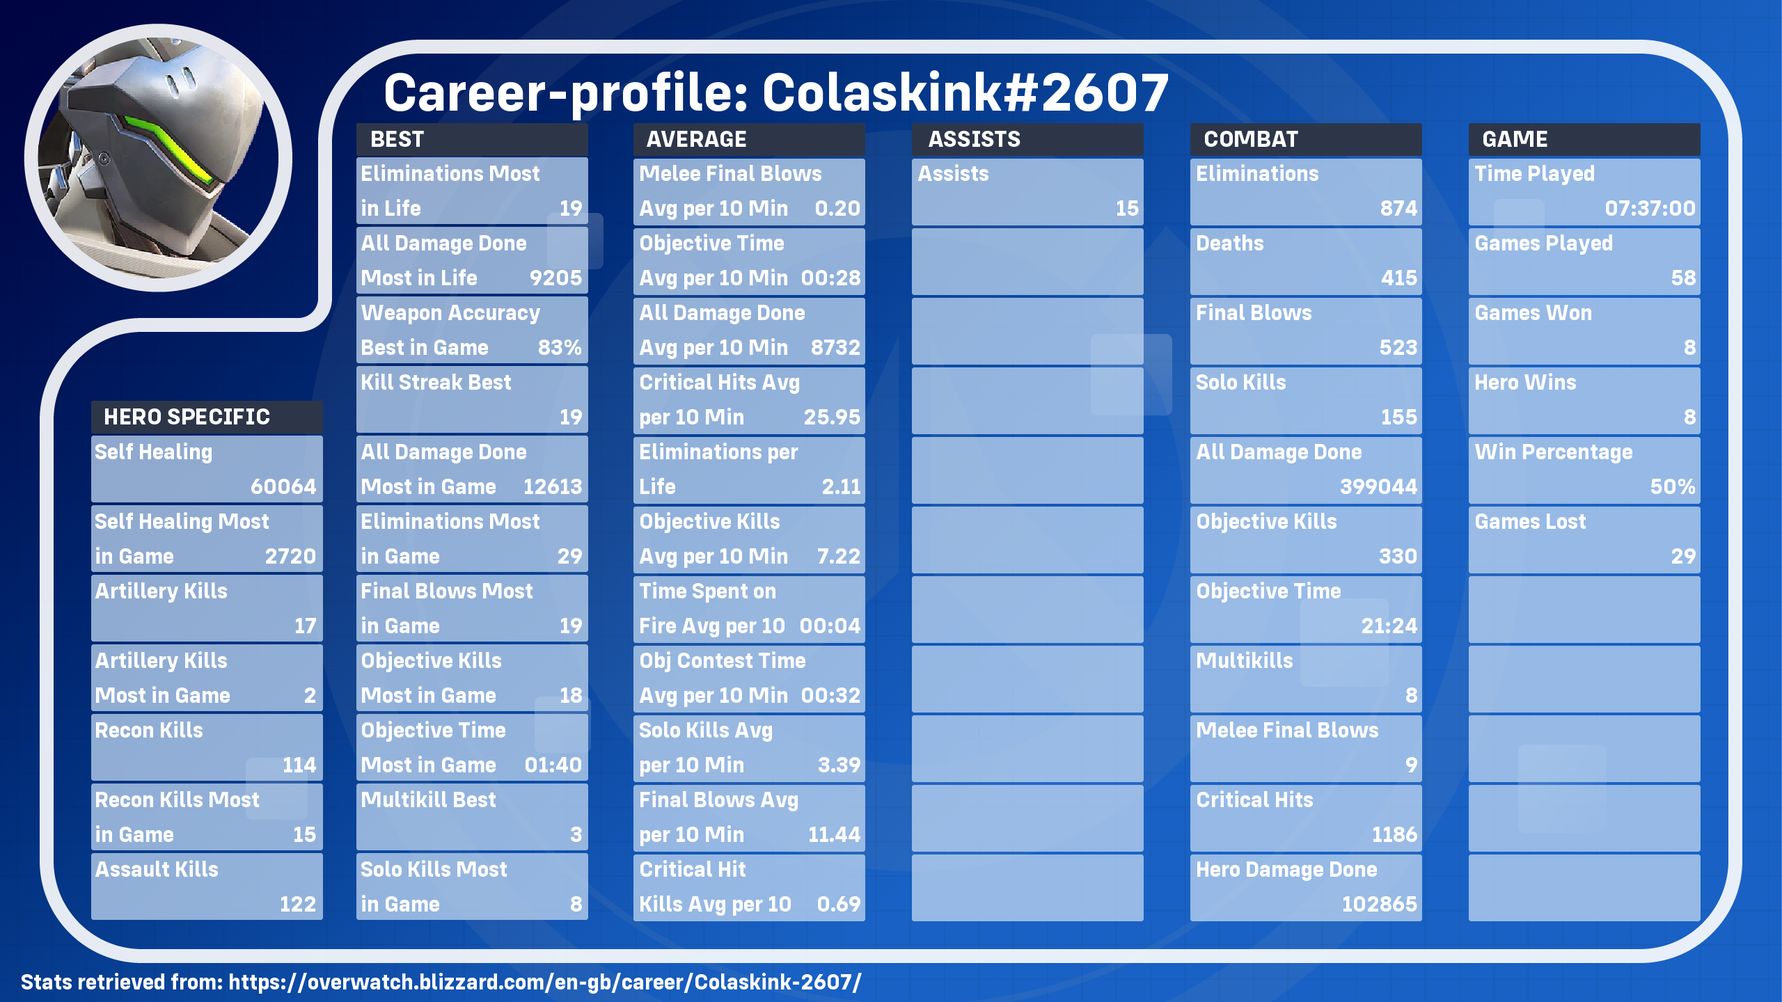
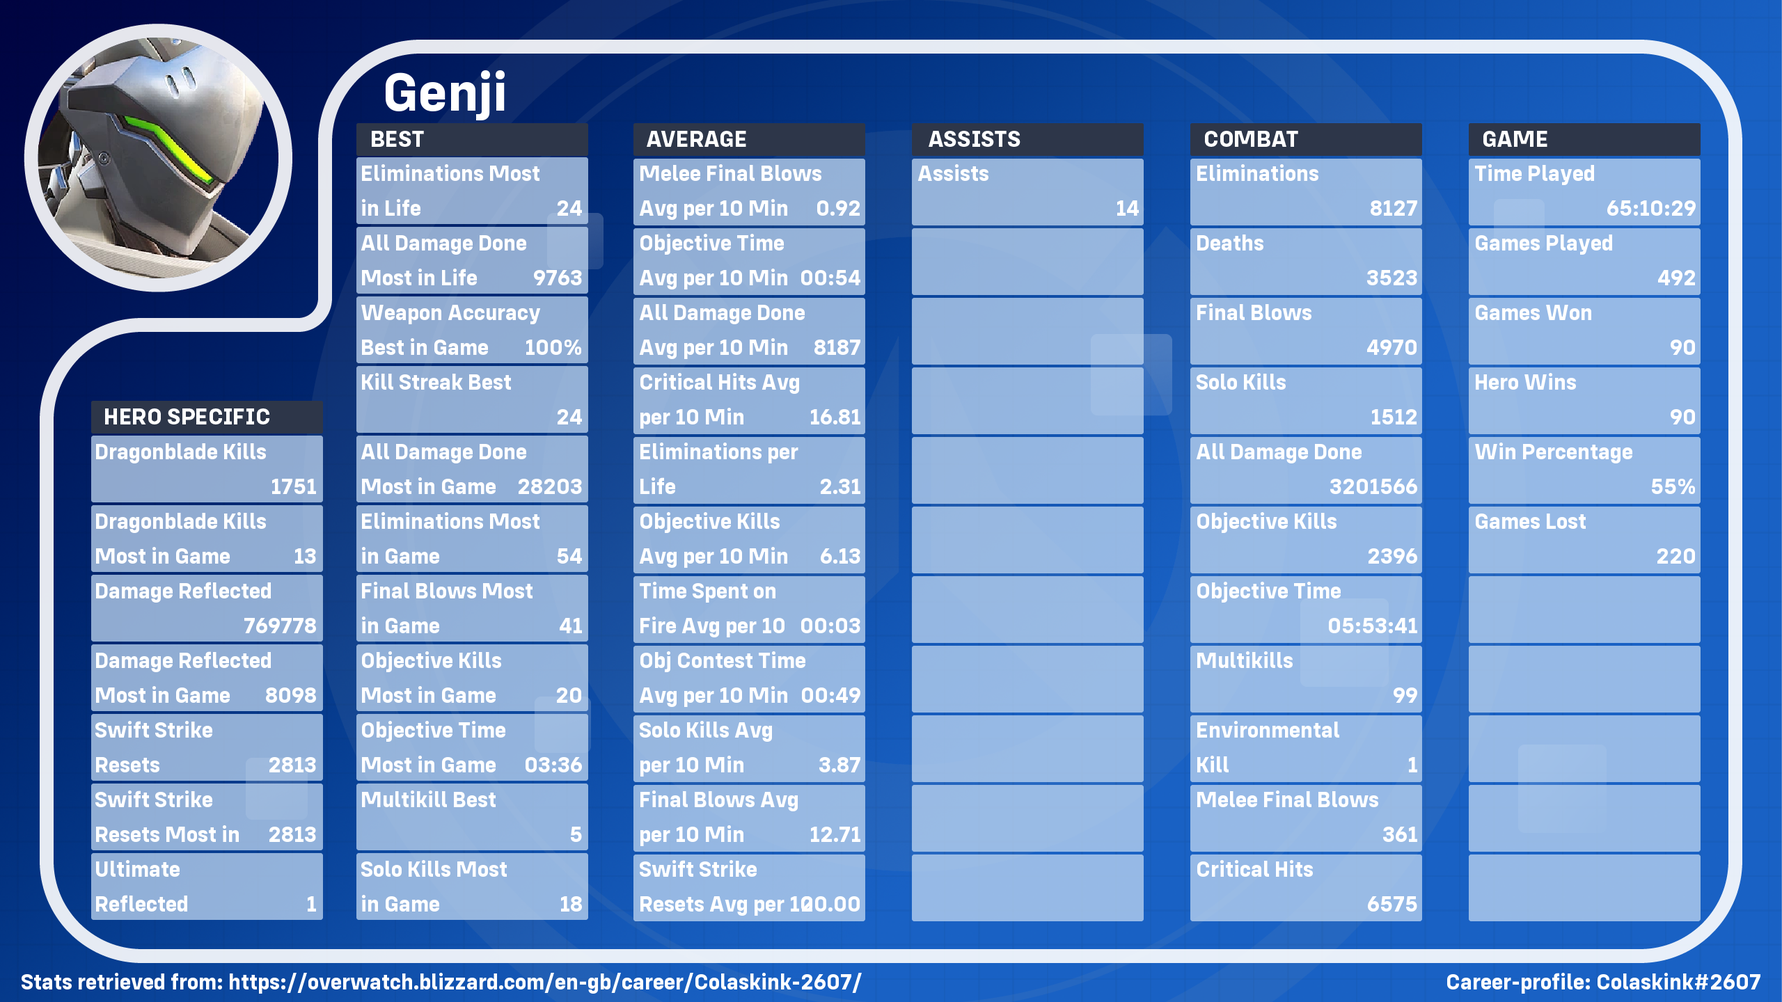
new commands, counters for heroes, random hero/team generator

diff --git a/VariousData.py b/VariousData.py
@@ -1,0 +1,44 @@
+counters_data = {
+    "ana": "**Ana**\n\nOf course, the classic counter is just to run Kiriko 4head and Suzu her anti-nade, but I want to look at situations where you would not want to run Ana, and that is what you are running. A brawl comp, where you would either be running Baptiste or in a full-on poke matchup, where Baptiste just does more damage. So, team comp wise, that is where you can get an advantage, individually speaking. Diving or pressuring the Ana, of course, is a good move, either running straight into the back line as Reinhardt, Ramattra, or just diving in on any hero. ",
+    "ashe": "**Ashe**\n\nAshes strengths lie in her range and damage, but falter in her sustain and mobility. Duelist heroes like Genji and Tracer and to a lesser extent, Sombra can easily demolish her, especially without a mercy pocket and especially on maps with high ground. You really ought to be playing Winston, Ball or D.va. You lose against Ashe once she has all the space in the world, specifically on high ground-based maps. So, you need to play heroes that can contest that. Kiriko and Moira are even solid picks, as long as you can pull off the flanking playstyle.",
+    "baptiste": "**Baptiste**\n\nBap's kind of the jack of all trade support hero. He's tough to nail down a specific hard counter for, because there kind of isn't one. I suppose if you are on DPS, playing them well is just probably your best bet, and that sounds kind of vague, but what I mean is choosing and picking a specific playstyle. For example, flanking on Junkrat to get that one shot off, or flanking on Reaper instead of frontlining, or just taking good, well-timed angles on Ashe or Sojourn things like that can catch a Baptiste out in the open. And as for the other tank and support matchups, most of them are pretty neutral, if not similar to Ana.",
+    "bastion": "**Bastion**\n\nThe noob stomper of a pick. Honestly, any hitscan pick, and even Sojourn, who can easily farm rail off him, can melt Bastion's mega hitbox. I will say that the counter to Bastion is more of a playstyle thing rather than hero specific. As long as you can play defensive during Bastion’s turret cycles, you are pretty much good to go. Any hero can pretty much kill Bastion if he hasn't got turret form. ",
+    "brigitte": "**Brigitte**\n\nBrigitte thrives the best against dive comps, where Brig falters is in the ranged matchups against snipers or mercy-based comps, or in straight up brawl comps, like your Lucio Bap and Rein stuff on Lijiang. Despite Brick being a melee hero, she wants to keep a relatively far distance away from the enemy tank, but she also wants to get close eventually in the midfight to get those swings off. Those two types of compositions can make either of those goals really tough for Brick to achieve.",
+    "cassidy": "**Cassidy**\n\nCassidy is a pretty versatile hero, more of a jack of all trades, master of none kind of thing. So, you can either outrange him with heroes like Ashe, Mercy, Zen Widow, and Hanzo, or you can abuse his lackluster mobility with a dive or duelist-oriented comp. He has not really got too much of a glaring weakness, and most of his so-called counters are soft counters.",
+    "d.va": "**D.va**\n\nIf the D.va is not competent or loves stacking main, then the solution is easy. Go Zarya and hold M1, or just go high damage heroes to obliterate the D.va (e.g., Bastion, Symmetra, Sojourn, Soldier). But if you are going against a good D.va who does not feed and correctly marks high grounds, then it is a bit more complicated and a bit more team oriented. If you can split the D.va’s attention, that is what can cause great panic. Make her choose between marking and controlling high grounds and peeling her backline. Sombra is also a good hero against her considering the hack and range advantage she has.",
+    "doomfist": "**Doomfist**\n\nGenerally speaking, there is a few things you can do. Either run heroes with hard CC like Orisa, Ana or Sombra, or run heroes that can deny Doomfist any space, like D.va, Sombra, Tracer, Echo, and even Zen with his orbs.",
+    "echo": "**Echo**\n\nSimilar to Pharah, as you will see later range, can often be a big issue for Echo. Two Cassidy shots one Hanzo arrow, and Echo automatically has to play way more passive. If she lands her stickies and beam combo up close, you are likely going to die to her. Most of the tanks do not interact with Echo barring D.va, but it's also pretty easy to feed on D.va against an Echo. I will say that Sombra is also a decent counter, since the hack from Invis paired alongside Echo’s big hitbox can easily melt Echo on the ground.",
+    "genji": "**Genji**\n\nMoira, and Brigitte can be tough to deal with alongside a high charge Zarya. Sustain and bulky brawl comps do not really bode well for Genji, since heroes like Reinhardt, Mei, Baptiste, and Lucio can easily tank through your dash and your shuriken most of the time.",
+    "hanzo": "**Hanzo**\nI have always seen Hanzo like an alternative Cassidy with higher burst damage in exchange for lower sustain. Heroes like Genji, Doomfist, Sombra, and Tracer should easily be able to squash the Hanzo with no issue. Sigma, I think, is also an underrated tank to play against because you can mark any angles he takes.", 
+    "illari": "**Illari**\n\n[REDACTED]",
+    "junker queen": "**Junker Queen**\n\nJunker Queen's two biggest weaknesses, even from release, has always been her range and mobility. Running heroes like Sigma Pharah, Ashe, Hanzo, Zen, Mercy and others can keep Junker Queen at bay from range, and because of her limited mobility, she should have a tough time getting up close. Ana and Kiriko can also deny value from her adrenaline surge and her ultimate, respectively. Playing Ramattra or Zarya are also decent choices as long as you force commanding shout early before you close the distance.",
+    "junkrat": "**Junkrat**\n\nThe classic counter is Pharmercy, of course, but Junkrat's kind of built like a glass cannon. Zarya can absorb his bombs and melt him down. D.va can eat all kinds of spam from him, and most importantly, most heroes honestly have a relatively decent matchup against him as long as you're aware of where he is. A Junkrat sneaking up on you for a mine concussion combo is a recipe for disaster. Maybe even going Hanzo and scouting out his flanks could be worthwhile. ",
+    "kiriko": "**Kiriko**\n\nI genuinely think this hero does not have a hard counter. She is only really bad in situations where you wouldn't pick Kiriko anyways, like on Circle Royale, where you should be playing Bap, Zen, but even then, you could get away with Kiriko in your rank games, I suppose. Pouncing on Kiriko if she is isolated when you are playing as a flanker or just being more aware of your surroundings as a sniper in case a Kiriko tries to pounce on you are all precautionary measures that you can take. ",
+    "lifeweaver": "**Lifeweaver**\n\n[REDACTED]",
+    "lucio": "**Lucio**\n\nAny CC can stop his reddit antics. And if he is supporting a DPS on a flank, someone like a Brig can do that job better. For example, a Sojourn. Lucio should lose against a Brig Sojourn. But as for direct counters, there is not really too much to say. Honestly, most of his matchups are pretty neutral.",
+    "mei": "**Mei**\n\nIf you play very split against Mei and you also play to out range her, then the value she can get from the wall will be at most, quite limited. Heroes with high sustain like Ramattra and Orisa can also withstand getting split from Mei's wall. ",
+    "mercy": "**Mercy**\n\nMercy has some pretty rudimentary counters, thriving on ranged maps, but struggling up close due to her low sustain. Get behind her on any flank in the game, or close the distance with broader compositions. The Brig vs. Mercy matchup is interesting, since if you can close the distance from Brig, Mercy is kind of screwed.",
+    "moira": "**Moira**\n\nMoira is probably the best support duelist in the game, thanks to her insane sustain. However, she has no utility. Ana nades really pose a threat to her, and while she has not got any direct or individual counters, she's a utility burden on her team. Things like immortality, field Suzu, Nade sleep, and Zen orbs, if used correctly, will often naturally outvalue what Moira can do. If you are struggling individually, I recommend going heroes with high sustain. Moira is simply not outdueling you if you are on Brig.",
+    "orisa": "**Orisa**\n\nSimple, either run Zarya and or focus stuff around the Orisa. Even on Zarya, you are still trying to prioritize squishy heroes where you can. If you are shooting at Orisa in Fortify whilst there are squishies that you could be shooting, then there is a problem. Abuse the fact that Orisa has limited mobility and utility by fighting for the key spaces of the map around the Orisa.",
+    "pharah": "**Pharah**\n\nOf course, the average gold player is getting yelled “play hitscan Lmao”, but it is a bit more nuanced than that. The biggest thing is that if you are going to play Hitscans like Soldier, Widow Cassidy, you really need to keep the range. Pharah loves duels in close range, especially getting up close with that concussive blast. So, if you are running something like an Ana, Zen and Widowmaker, you really cannot let the Pharah get on top of you. In terms of projectile counters, Echo is also really, really good against Pharmercy and for tanks go D.va, of course. ",
+    "ramattra": "**Ramattra**\n\nSimilar to Orisa, I think it's kind of futile trying to run up against the Ramattra. Wrecking Ball in particular, I found very annoying to play against as Ramattra because you do not have any hard CC to deal with him. And if the enemy team are running an Ana Zenyatta combo, then those two heroes can prevent Ramattra from closing the distance.",
+    "reaper": "**Reaper**\n\nBefore I get into his counters, I want to briefly cover his two playstyles. Reaper either frontlines against squishy tanks, or he flanks against a glass cannon immobile squishies. So, to counter him, make either or both of those playstyles hard to pull off. Orisa, Torb, Cassidy, Brig, and Ana are probably the hardest counters to Reaper in the game. Or, if you are on a more open map, Pharah and Echo can work too, as well as other ranged options. ",
+    "reinhardt": "**Reinhardt**\n\nThere is a bunch of things you can do against Reinhardt. Ramattra pretty much melts him. He cannot do much on maps with high ground, so running ranged threats like Ashe and Mercy are a pain to deal with. And also, playing against Ana-Zen is absolutely hellish. Due to Nade sleep and discord. In short, if you are going to play in close range against Reinhardt, make sure you soften him up beforehand (Poke his shield/armor). A Rein with limited shield cannot do much against a dive or rush if he hasn’t got earthshatter.",
+    "roadhog": "**Roadhog**\n\nHonestly, every hero in this game counters Hog. Just play the game and counter him by proxy. Orisa Ana, Zen, and a good Tracer are particularly annoying for him to play against. If you’ve got a feeding DPS, playing Lifeweaver can also save them from getting killed by the hook.",
+    "sigma": "**Sigma**\n\nSigma, of course, loves to keep his range, but he does have the tools to defend himself if he gets walked upon. A good Reinhardt, for example, with good shield management or a good Junker Queen, or Zarya should be able to bully the Sigma up close. Symmetra, Junkrat, and to a lesser extent, Reaper can also kind of do the same thing. And because we are all about closing the distance, Lucio can help with that too. Ensure he cannot continuously poke your team uninterrupted, as that is where he excels.",
+    "sojourn": "**Sojourn**\n\nBefore Sojourn had a pretty strict counter in Cassidy, since if Sojourn ever got close or power steered aggressively, Cassidy could just two shot the Sojourn. Now, that is less of a counter, but still a viable option. Playing tanks with slender hitboxes like Junker Queen and ensuring that it is tough for her to charge her rail gun off can lower how effective she is. Weirdly enough, I think Brig is also a decent pick against her, since she kind of acts like an aggression check if the Sojourn power slides aggressively. ",
+    "soldier 76": "**Soldier: 76**\n\nHis biggest counter is any dive in the game. Even Lucio's can reliably win duels against a Soldier. Soldier just does not have any big, reliable bursts of damage, unlike Cassidy with the homing grenade, Sojourn with a railgun, or even Hanzo with the storm arrows. Sure, he has helix rockets, but that is tough to hit on a moving target. Take advantage of how squishy he can be and pounce when the opportunity shows itself. ",
+    "sombra": "**Sombra**\n\nSombra's USP or unique selling points is her range. She's the flanker in the game with the most range. For example, she can farm a tank more easily than someone like a tracer, so just outrange the Sombra. One Hanzo arrow, two Cassidy body shots, one Widow body shot, and that Sombra is forced to use her translocator. You can also out-sustain the Sombra by running things like Torb and Brig, but be careful that you may not have enough mobility to directly contest her.",
+    "symmetra": "**Symmetra**\n\nSymmetra thrives when she can get her level three beam up, melting down the enemy tank. Her alternative playstyle is a less resource intensive one, involving ticking off angles and spamming from range. Forcing Symmetra into that latter playstyle will make things tougher for her, since she is not microwaving your team.",
+    "torbjorn": "**Torbjörn**\n\nOne of the classic counters against traditional dive heroes, Torb struggles at dishing out reliable damage from mid to long range, which is why heroes like Cassidy, Sigma, and Echo can quite easily burn him down on longer range maps. Just run snipers against him alongside Bap Zen to burn his turret, and you should be fine.",
+    "tracer": "**Tracer**\n\nTracer is such a strong and versatile hero and there are not many direct counters to her. There's Torbjorn, of course, with his turret, but other people can destroy the turret anyways. Personally, I think the best counter to Tracer is to mirror her with support. A Tracer with Zen orbs or a Tracer with Brig packs will win against a regular Tracer. Brig in particular, also has that sustain too, so picking her is definitely a top solution.",
+    "widowmaker": "**Widowmaker**\n\nHigh range, low mobility. Any dive tank, Genji, Tracer, Lucio, Kiriko, even Moira are all solid duelists to flush out the Widowmaker and eliminate her range advantage. Poke-brawl tanks like Ramattra and Reinhardt do not often interact with the Widow anyways, so their matchups are mostly neutral.",
+    "winston": "**Winston**\n\nOf course, all the gold players will say that Reaper or even Bastion is a good counter. But if the Winston knows what he is doing and can get on top of the enemy squishies unless Reaper or Bastion sits in the backline, they are not going to be doing much. Now, they obviously are not bad picks, but they are just one small piece to the larger idea of running mad sustain. Winston is going to be doing fuck all against a Junker Queen, Brig, Ana, Torb, Cassidy or Reaper comp. Now, that Comp does have its own downsides, and it can be counted itself, but if you are really struggling against a Winston, look to get higher damage or higher sustain.",
+    "wrecking ball": "**Wrecking Ball**\n\nSombra is the obvious counter here, just hacking from invisibility whenever he flanks. But other heroes like Tracer or Zen can deny the space he has before he dives. And similar to the Doom counters, heroes like Torb, Ana and D.va can actually absorb the dive itself. Choose your pick or choose both. ",
+    "zarya": "**Zarya**\n\nZarya's two biggest weaknesses are her lack of sustain and her lack of mobility. Reinhardt Junker Queen and Ramattra can easily W key on her. Alternatively, heroes like Winston can cleave multiple enemies around the Zarya, especially if she is on low charge, either pummel the Zarya from high ground and from range, so that even if she is on high charge, she is built like a glass cannon and cannot last for long.",
+    "zenyatta": "**Zenyatta**\n\nThe definitive glass cannon of Overwatch. If you can close the distance on a rush comp, Zen is kind of finished. Part of it is map dependent, but any hero who is competent at dueling and has mobility can give Zen a hard time. There is your classic Tracer, Sombra stuff. But heroes like Lucio Kiriko and Moira, and to a lesser extent, Baptiste, are supporters who can give Zen a tough time if they are playing aggressively in a flanker or DPS oriented style."
+}
+
+TankList = ["Dva", "Doomfist", "Junker Queen", "Orisa", "Ramattra", "Reinhardt", "Roadhog", "Sigma", "Winston", "Wrecking Ball", "Zarya"]
+DPSList = ["Ashe", "Bastion", "Cassidy", "Echo", "Genji", "Hanzo", "Junkrat", "Mei", "Pharah", "Reaper", "Soldier 76", "Sombra", "Sojourn", "Symmetra", "Torbjörn", "Tracer", "Widowmaker"]
+SuppList = ["Ana", "Baptiste", "Brigitte", "Illari", "Kiriko", "Lifeweaver", "Lucio", "Mercy", "Moira", "Zenyatta"]

diff --git a/StatImageGenerator.py b/StatImageGenerator.py
@@ -5,6 +5,7 @@ import textwrap
 import os
 
 async def image_generator(user, hero):
+
     hero = hero.lower()
     #Check if hero exists in dictionary
     #If true, run program
@@ -21,13 +22,12 @@ async def image_generator(user, hero):
         hero_file = hero_file.replace("'", '"')
         hero_file = hero_file.replace(" -", "")
         hero_file = json.loads(hero_file)
-        # create an image
+        #Create an image
         image = Image.open("./Templates/"+ hero +".png")
 
-        # get a font
-        # font Microsoft Sans Serif Almindelig
+        #Get font
         fnt = ImageFont.truetype("./Fonts/configalt-bold.ttf", 32)
-        # get a drawing context
+        #Get drawing context
         d = ImageDraw.Draw(image)
 
         async def insert_text_column_auto(x_coord, y_coord, category, max_elements):
@@ -52,11 +52,13 @@ async def image_generator(user, hero):
                 else:
                     first_word = key
                     second_word = ""
+
                 #Draw key
                 d.text((x_coord, y_coord), first_word, font=fnt, fill=(255, 255, 255))
                 y_coord += 50
                 d.text((x_coord, y_coord), second_word, font=fnt, fill=(255, 255, 255))
                 x_coord += 326
+
                 #Draw value
                 d.text((x_coord, y_coord), value, font=fnt, fill=(255, 255, 255), anchor="ra")
                 y_coord += 50
@@ -75,6 +77,7 @@ async def image_generator(user, hero):
         #insert source text
         d.text((30, 1390), "Stats retrieved from: https://overwatch.blizzard.com/en-gb/career/" + user + "/", font=fnt, fill=(255, 255, 255))
         d.text((2530, 1390), "Career-profile: " + user.replace("-", "#"), font=fnt, fill=(255, 255, 255), anchor="ra")
+        
         #insert title text
         fnt = ImageFont.truetype("./Fonts/configalt-bold.ttf", 80)
         d.text((550, 80), hero.title(), font=fnt, fill=(255, 255, 255))

diff --git a/WintonBotFunctions.py b/WintonBotFunctions.py
@@ -1,6 +1,8 @@
 import discord
+import random
 from Overwatch_stat_checker import get_player_data
 from StatImageGenerator import image_generator
+from VariousData import counters_data, StratList, TankList, DPSList, SuppList
 
 async def get_ow_career(interaction: discord.Interaction, user, hero):
     user = user.replace("#", "-")
@@ -8,4 +10,25 @@ async def get_ow_career(interaction: discord.Interaction, user, hero):
     await image_generator(user, hero)
     image = discord.File("./PlayerHeroPosters/" + user + "/" + hero + ".png")
     await interaction.followup.send(file=image)
-    
+
+async def get_counter(interaction: discord.Interaction, hero):
+    hero = hero.lower()
+    if hero in counters_data:
+        response = counters_data[hero]
+        await interaction.followup.send(response)
+    else:
+        await interaction.followup.send("Incorrect input, no special characters like ú and ö are needed in the heroname, just use u and o instead")
+
+async def randomize_role(interaction: discord.Interaction, role, roulette):
+    rolenumber = "none"
+    if roulette != True:
+        if role == "all roles":
+            rolenumber = random.randint(0,2)
+        if role == "tank" or rolenumber == 0:
+            await interaction.followup.send("**Your hero is: **" + random.choice(TankList))
+        if role == "dps" or role == "damage" or rolenumber == 1:
+            await interaction.followup.send("**Your hero is: **" + random.choice(DPSList))
+        if role == "support" or role == "healer" or role == "supp" or rolenumber == 2:
+            await interaction.followup.send("**Your hero is: **" + random.choice(SuppList))
+    else:
+        await interaction.followup.send("**__Random Roulettte:__**" + "\n**Tank**: "+random.choice(TankList) + "\n**DPS**: "+random.choice(DPSList) + "\n**DPS**: "+random.choice(DPSList) + "\n**Support**: "+random.choice(SuppList) + "\n**Support**: "+random.choice(SuppList))

diff --git a/WintonBot.py b/WintonBot.py
@@ -2,7 +2,7 @@ import discord
 from discord import app_commands
 from discord.ext import commands
 
-from WintonBotFunctions import get_ow_career
+from WintonBotFunctions import get_ow_career, get_counter, randomize_role
 
 intents = discord.Intents.default()
 intents.message_content = True
@@ -31,6 +31,18 @@ async def on_ready():
 async def ow_career(interaction: discord.Interaction, user: str, hero: str = "All Heroes"):
     await interaction.response.defer()
     await get_ow_career(interaction, user, hero)
-            
+
+@bot.tree.command(name = "counter")
+@app_commands.describe(hero = "The hero you want to counter")
+async def counter(interaction: discord.Interaction, hero: str):
+    await interaction.response.defer()
+    await get_counter(interaction, hero)
+
+@bot.tree.command(name = "random_hero")
+@app_commands.describe(role = "The role you want a random hero from", roulette = "Whether or not you want to generate a full team of heroes, the chosen role will have no impact")
+async def random_hero(interaction: discord.Interaction, role: str = "all roles", roulette: bool = False):
+    await interaction.response.defer()
+    await randomize_role(interaction, role, roulette)
+
 token = get_token()
 bot.run(token)

diff --git a/Overwatch_stat_checker.py b/Overwatch_stat_checker.py
@@ -1,48 +1,6 @@
 import requests
 from bs4 import BeautifulSoup
-"""
-heroes = {
-    "0": "all heroes",
-    "1": "ana",
-    "2": "ashe",
-    "3": "baptiste",
-    "4": "bastion",
-    "5": "brigitte",
-    "6": "cassidy",
-    "7": "d.va",
-    "8": "doomfist",
-    "9": "echo",
-    "10": "genji",
-    "11": "hanzo",
-    "12": "illari",
-    "13": "junker queen",
-    "14": "junkrat",
-    "15": "kiriko",
-    "16": "lifeweaver",
-    "17": "lucio",
-    "18": "mei",
-    "19": "mercy",
-    "20": "moira",
-    "21": "orisa",
-    "22": "pharah",
-    "23": "ramattra",
-    "24": "reaper",
-    "25": "reinhardt",
-    "26": "roadhog",
-    "27": "sigma",
-    "28": "sojourn",
-    "29": "soldier 76",
-    "30": "sombra",
-    "31": "symmetra",
-    "32": "torbjorn",
-    "33": "tracer",
-    "34": "widowmaker",
-    "35": "winston",
-    "36": "wrecking ball",
-    "37": "zarya",
-    "38": "zenyatta"
-}
-"""
+
 #String to list converter
 async def convert(string):
     li = list(string.split(","))
